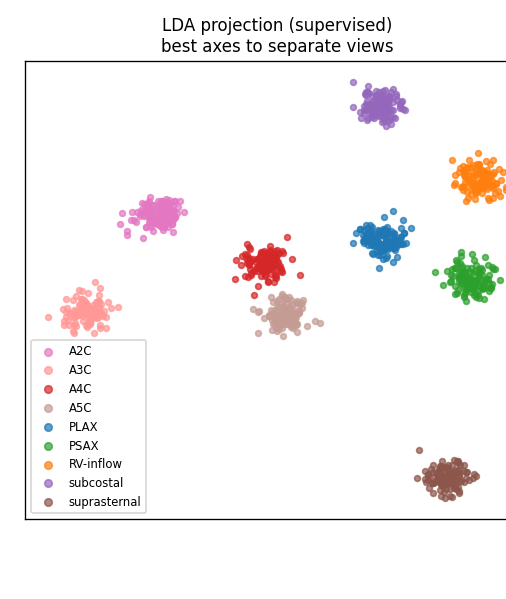
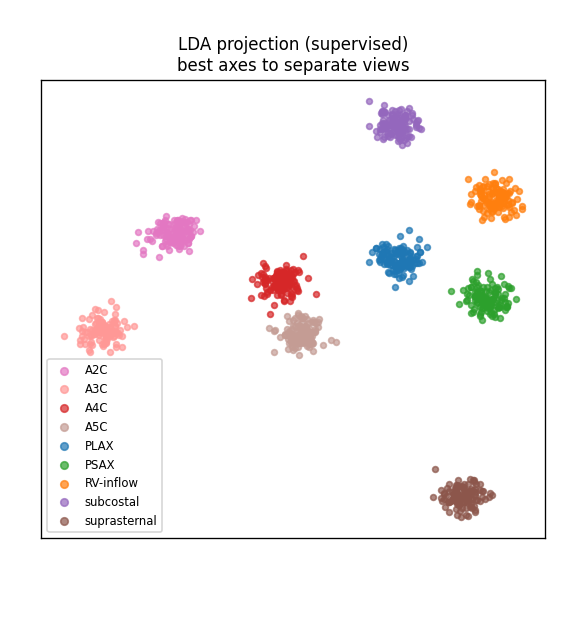
README: fix view figure crop (right margin) and size

diff --git a/README.md b/README.md
@@ -66,7 +66,7 @@ cardiac cycle:
 Trained across apical and non-apical views, the frozen embeddings also separate the
 nine standard echo views (no view labels used in pretraining; supervised LDA shown):
 
-<img src="./figure/multiview/view_lda.png" width="340px"></img>
+<img src="./figure/multiview/view_lda.png" width="380px"></img>
 
 ## Installation
 
